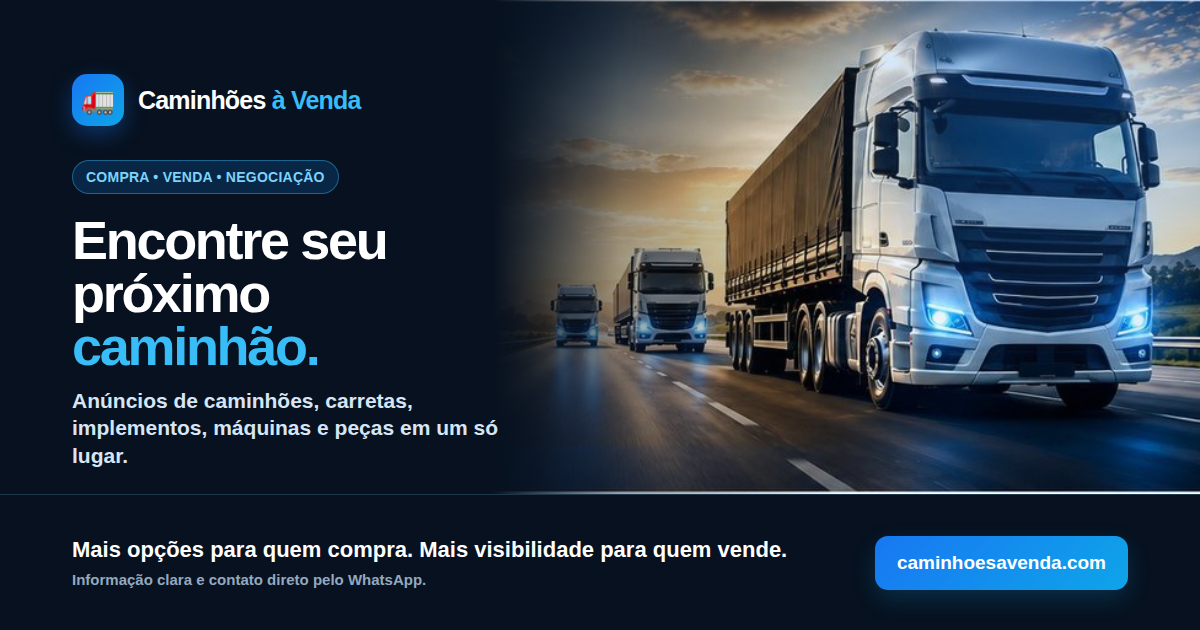
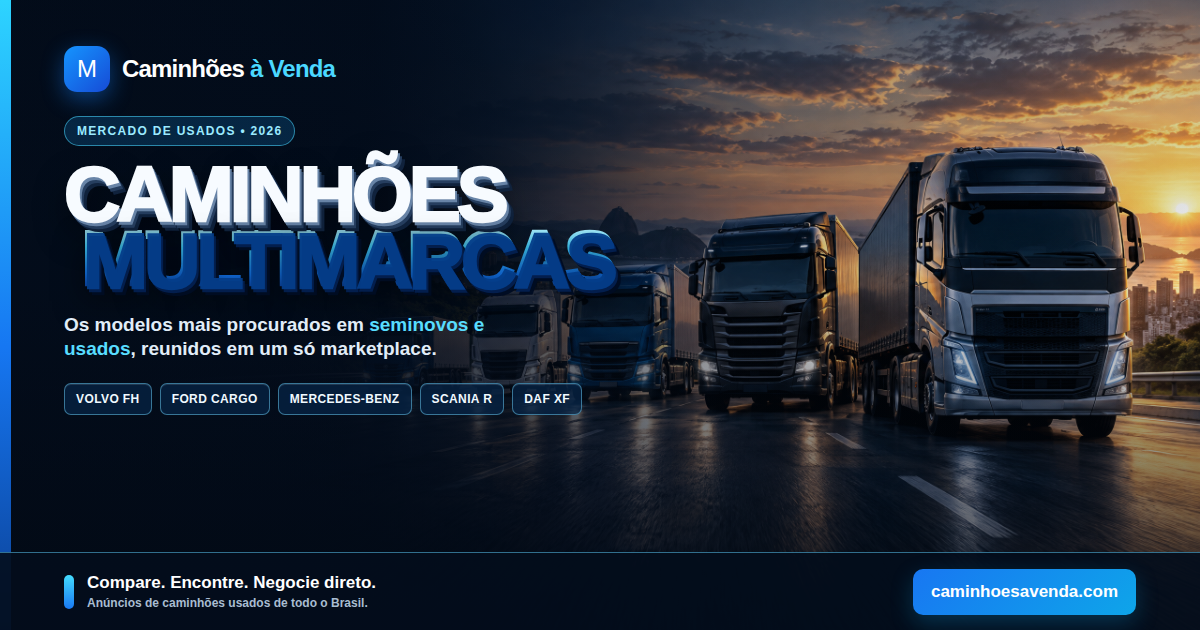
feat: renovar previa com visual 3d multimarcas
Atualiza a arte social com tipografia tridimensional e referências de caminhões usados em destaque no mercado de 2026.

diff --git a/design/og-preview.html b/design/og-preview.html
@@ -7,43 +7,43 @@
     @page { size: 1200px 630px; margin: 0; }
     * { box-sizing: border-box; }
     html, body { margin: 0; width: 1200px; height: 630px; overflow: hidden; }
-    body { font-family: Arial, Helvetica, sans-serif; background: #07111f; color: #fff; }
-    main {
-      position: relative; width: 1200px; height: 630px; overflow: hidden;
-      background: #07111f;
-    }
-    .hero { position: absolute; inset: 0 0 136px 0; background: #07111f; }
-    .photo { position: absolute; right: 0; top: 0; bottom: 0; width: 59%; background-image: linear-gradient(90deg, #07111f 0%, rgba(7,17,31,.38) 18%, rgba(7,17,31,0) 52%), url('../public/hero-home.jpg'); background-size: cover; background-position: 82% center; }
-    .glow { position: absolute; right: -90px; top: -110px; width: 430px; height: 430px; border-radius: 50%; background: rgba(24,119,242,.25); filter: blur(55px); }
-    .content { position: absolute; left: 72px; top: 74px; width: 520px; }
-    .brand { display: flex; align-items: center; gap: 14px; margin-bottom: 34px; }
-    .mark { width: 52px; height: 52px; border-radius: 15px; display: flex; align-items: center; justify-content: center; background: linear-gradient(135deg,#1877f2,#0ea5e9); box-shadow: 0 8px 22px rgba(24,119,242,.35); font-size: 27px; }
-    .brand-name { font-size: 25px; font-weight: 800; letter-spacing: -.8px; }
-    .brand-name span { color: #38bdf8; }
-    .eyebrow { display: inline-flex; padding: 8px 13px; border: 1px solid rgba(56,189,248,.42); border-radius: 999px; color: #7dd3fc; background: rgba(9,62,112,.48); font-size: 14px; font-weight: 700; letter-spacing: .25px; }
-    h1 { margin: 20px 0 14px; font-size: 54px; line-height: .98; letter-spacing: -2.3px; font-weight: 900; }
-    h1 span { color: #38bdf8; }
-    .sub { margin: 0; width: 470px; color: #d7e5f5; font-size: 21px; line-height: 1.32; font-weight: 600; }
-    .chips { display: flex; gap: 9px; margin-top: 28px; }
-    .chip { padding: 8px 12px; border-radius: 999px; color: #e0f2fe; border: 1px solid rgba(125,211,252,.35); background: rgba(7,36,69,.7); font-size: 13px; font-weight: 700; }
-    .bottom { position: absolute; left: 0; right: 0; bottom: 0; height: 136px; display: flex; align-items: center; justify-content: space-between; padding: 0 72px; background: #07111f; border-top: 1px solid rgba(125,211,252,.2); }
-    .bottom-copy { display: flex; flex-direction: column; gap: 8px; }
-    .bottom-title { font-size: 22px; font-weight: 800; }
-    .bottom-sub { color: #93a9bf; font-size: 15px; font-weight: 600; }
-    .url { padding: 16px 22px; border-radius: 13px; color: #fff; background: linear-gradient(135deg,#1877f2,#0ea5e9); font-size: 19px; font-weight: 800; box-shadow: 0 9px 25px rgba(14,165,233,.2); }
+    body { font-family: Arial, Helvetica, sans-serif; background: #061322; color: #fff; }
+    main { position: relative; width: 1200px; height: 630px; overflow: hidden; background: #061322; }
+    .bg { position: absolute; inset: 0; background-image: linear-gradient(90deg, rgba(3,12,26,.98) 0%, rgba(3,12,26,.9) 31%, rgba(3,12,26,.18) 64%, rgba(3,12,26,.05) 100%), url('./multibrand-trucks-bg.png'); background-size: cover; background-position: center; }
+    .vignette { position: absolute; inset: 0; background: linear-gradient(180deg, rgba(2,9,20,.2), transparent 45%, rgba(2,9,20,.78) 100%); }
+    .accent { position: absolute; left: 0; top: 0; width: 11px; height: 100%; background: linear-gradient(#2dd4ff, #1677f2 55%, #0b3f93); }
+    .content { position: absolute; left: 64px; top: 46px; width: 610px; }
+    .brand { display: flex; align-items: center; gap: 12px; margin-bottom: 24px; }
+    .mark { width: 46px; height: 46px; border-radius: 13px; display: flex; align-items: center; justify-content: center; color: #fff; background: linear-gradient(135deg, #1595ff, #164bd6); box-shadow: 0 7px 22px rgba(19,130,255,.42); font-size: 24px; }
+    .brand-name { font-size: 24px; font-weight: 900; letter-spacing: -.8px; }
+    .brand-name span { color: #4bd8ff; }
+    .eyebrow { display: inline-flex; padding: 7px 12px; border: 1px solid rgba(75,216,255,.55); border-radius: 999px; color: #9beaff; background: rgba(16,111,180,.26); font-size: 12px; font-weight: 900; letter-spacing: 1.3px; }
+    h1 { margin: 17px 0 0; font-size: 78px; line-height: .82; letter-spacing: -4px; font-weight: 1000; text-transform: uppercase; }
+    .line-white { display: block; color: #f7fbff; text-shadow: 2px 3px 0 #6884a7, 4px 6px 0 #263e5f, 7px 9px 0 #10223c, 0 14px 30px rgba(0,0,0,.5); }
+    .line-blue { display: block; margin-left: 17px; color: #38c8ff; background: linear-gradient(180deg,#b8f3ff 0%,#44d1ff 31%,#1479f2 73%,#0b3d9d 100%); -webkit-background-clip: text; background-clip: text; -webkit-text-fill-color: transparent; text-shadow: 2px 3px 0 rgba(4,61,137,.95), 4px 6px 0 rgba(3,31,79,.96), 7px 9px 0 rgba(0,12,35,.98), 0 15px 30px rgba(0,0,0,.55); }
+    .sub { margin: 22px 0 0; max-width: 470px; color: #e1edf8; font-size: 19px; line-height: 1.25; font-weight: 700; }
+    .sub strong { color: #58ddff; }
+    .models { display: flex; flex-wrap: wrap; gap: 8px; margin-top: 23px; max-width: 580px; }
+    .model { padding: 8px 11px; border-radius: 7px; color: #f0f9ff; border: 1px solid rgba(113,215,255,.48); background: rgba(5,35,69,.74); box-shadow: inset 0 1px 0 rgba(255,255,255,.12); font-size: 12px; font-weight: 900; letter-spacing: .4px; }
+    .bottom { position: absolute; left: 0; right: 0; bottom: 0; height: 78px; display: flex; align-items: center; justify-content: space-between; padding: 0 64px; background: rgba(3,13,28,.91); border-top: 1px solid rgba(96,210,255,.5); }
+    .bottom-copy { display: flex; align-items: center; gap: 13px; }
+    .pulse { width: 10px; height: 34px; border-radius: 8px; background: linear-gradient(#44dcff,#1979f3); }
+    .bottom-title { font-size: 17px; font-weight: 900; }
+    .bottom-sub { margin-top: 3px; color: #a9bdd1; font-size: 12px; font-weight: 700; }
+    .url { padding: 13px 18px; border-radius: 10px; color: #fff; background: linear-gradient(135deg,#1877f2,#0ea5e9); font-size: 17px; font-weight: 900; box-shadow: 0 8px 22px rgba(14,165,233,.25); }
   </style>
 </head>
 <body>
   <main>
-    <div class="hero"><div class="photo"></div><div class="glow"></div></div>
+    <div class="bg"></div><div class="vignette"></div><div class="accent"></div>
     <section class="content">
-      <div class="brand"><div class="mark">🚛</div><div class="brand-name">Caminhões <span>à Venda</span></div></div>
-      <div class="eyebrow">COMPRA • VENDA • NEGOCIAÇÃO</div>
-      <h1>Encontre seu próximo<br><span>caminhão.</span></h1>
-      <p class="sub">Anúncios de caminhões, carretas, implementos, máquinas e peças em um só lugar.</p>
-      <div class="chips"><div class="chip">Contato direto</div><div class="chip">Anúncios organizados</div><div class="chip">Todo o Brasil</div></div>
+      <div class="brand"><div class="mark">M</div><div class="brand-name">Caminhões <span>à Venda</span></div></div>
+      <div class="eyebrow">MERCADO DE USADOS • 2026</div>
+      <h1><span class="line-white">Caminhões</span><span class="line-blue">multimarcas</span></h1>
+      <p class="sub">Os modelos mais procurados em <strong>seminovos e usados</strong>, reunidos em um só marketplace.</p>
+      <div class="models"><div class="model">VOLVO FH</div><div class="model">FORD CARGO</div><div class="model">MERCEDES-BENZ</div><div class="model">SCANIA R</div><div class="model">DAF XF</div></div>
     </section>
-    <footer class="bottom"><div class="bottom-copy"><div class="bottom-title">Mais opções para quem compra. Mais visibilidade para quem vende.</div><div class="bottom-sub">Informação clara e contato direto pelo WhatsApp.</div></div><div class="url">caminhoesavenda.com</div></footer>
+    <footer class="bottom"><div class="bottom-copy"><div class="pulse"></div><div><div class="bottom-title">Compare. Encontre. Negocie direto.</div><div class="bottom-sub">Anúncios de caminhões usados de todo o Brasil.</div></div></div><div class="url">caminhoesavenda.com</div></footer>
   </main>
 </body>
 </html>
